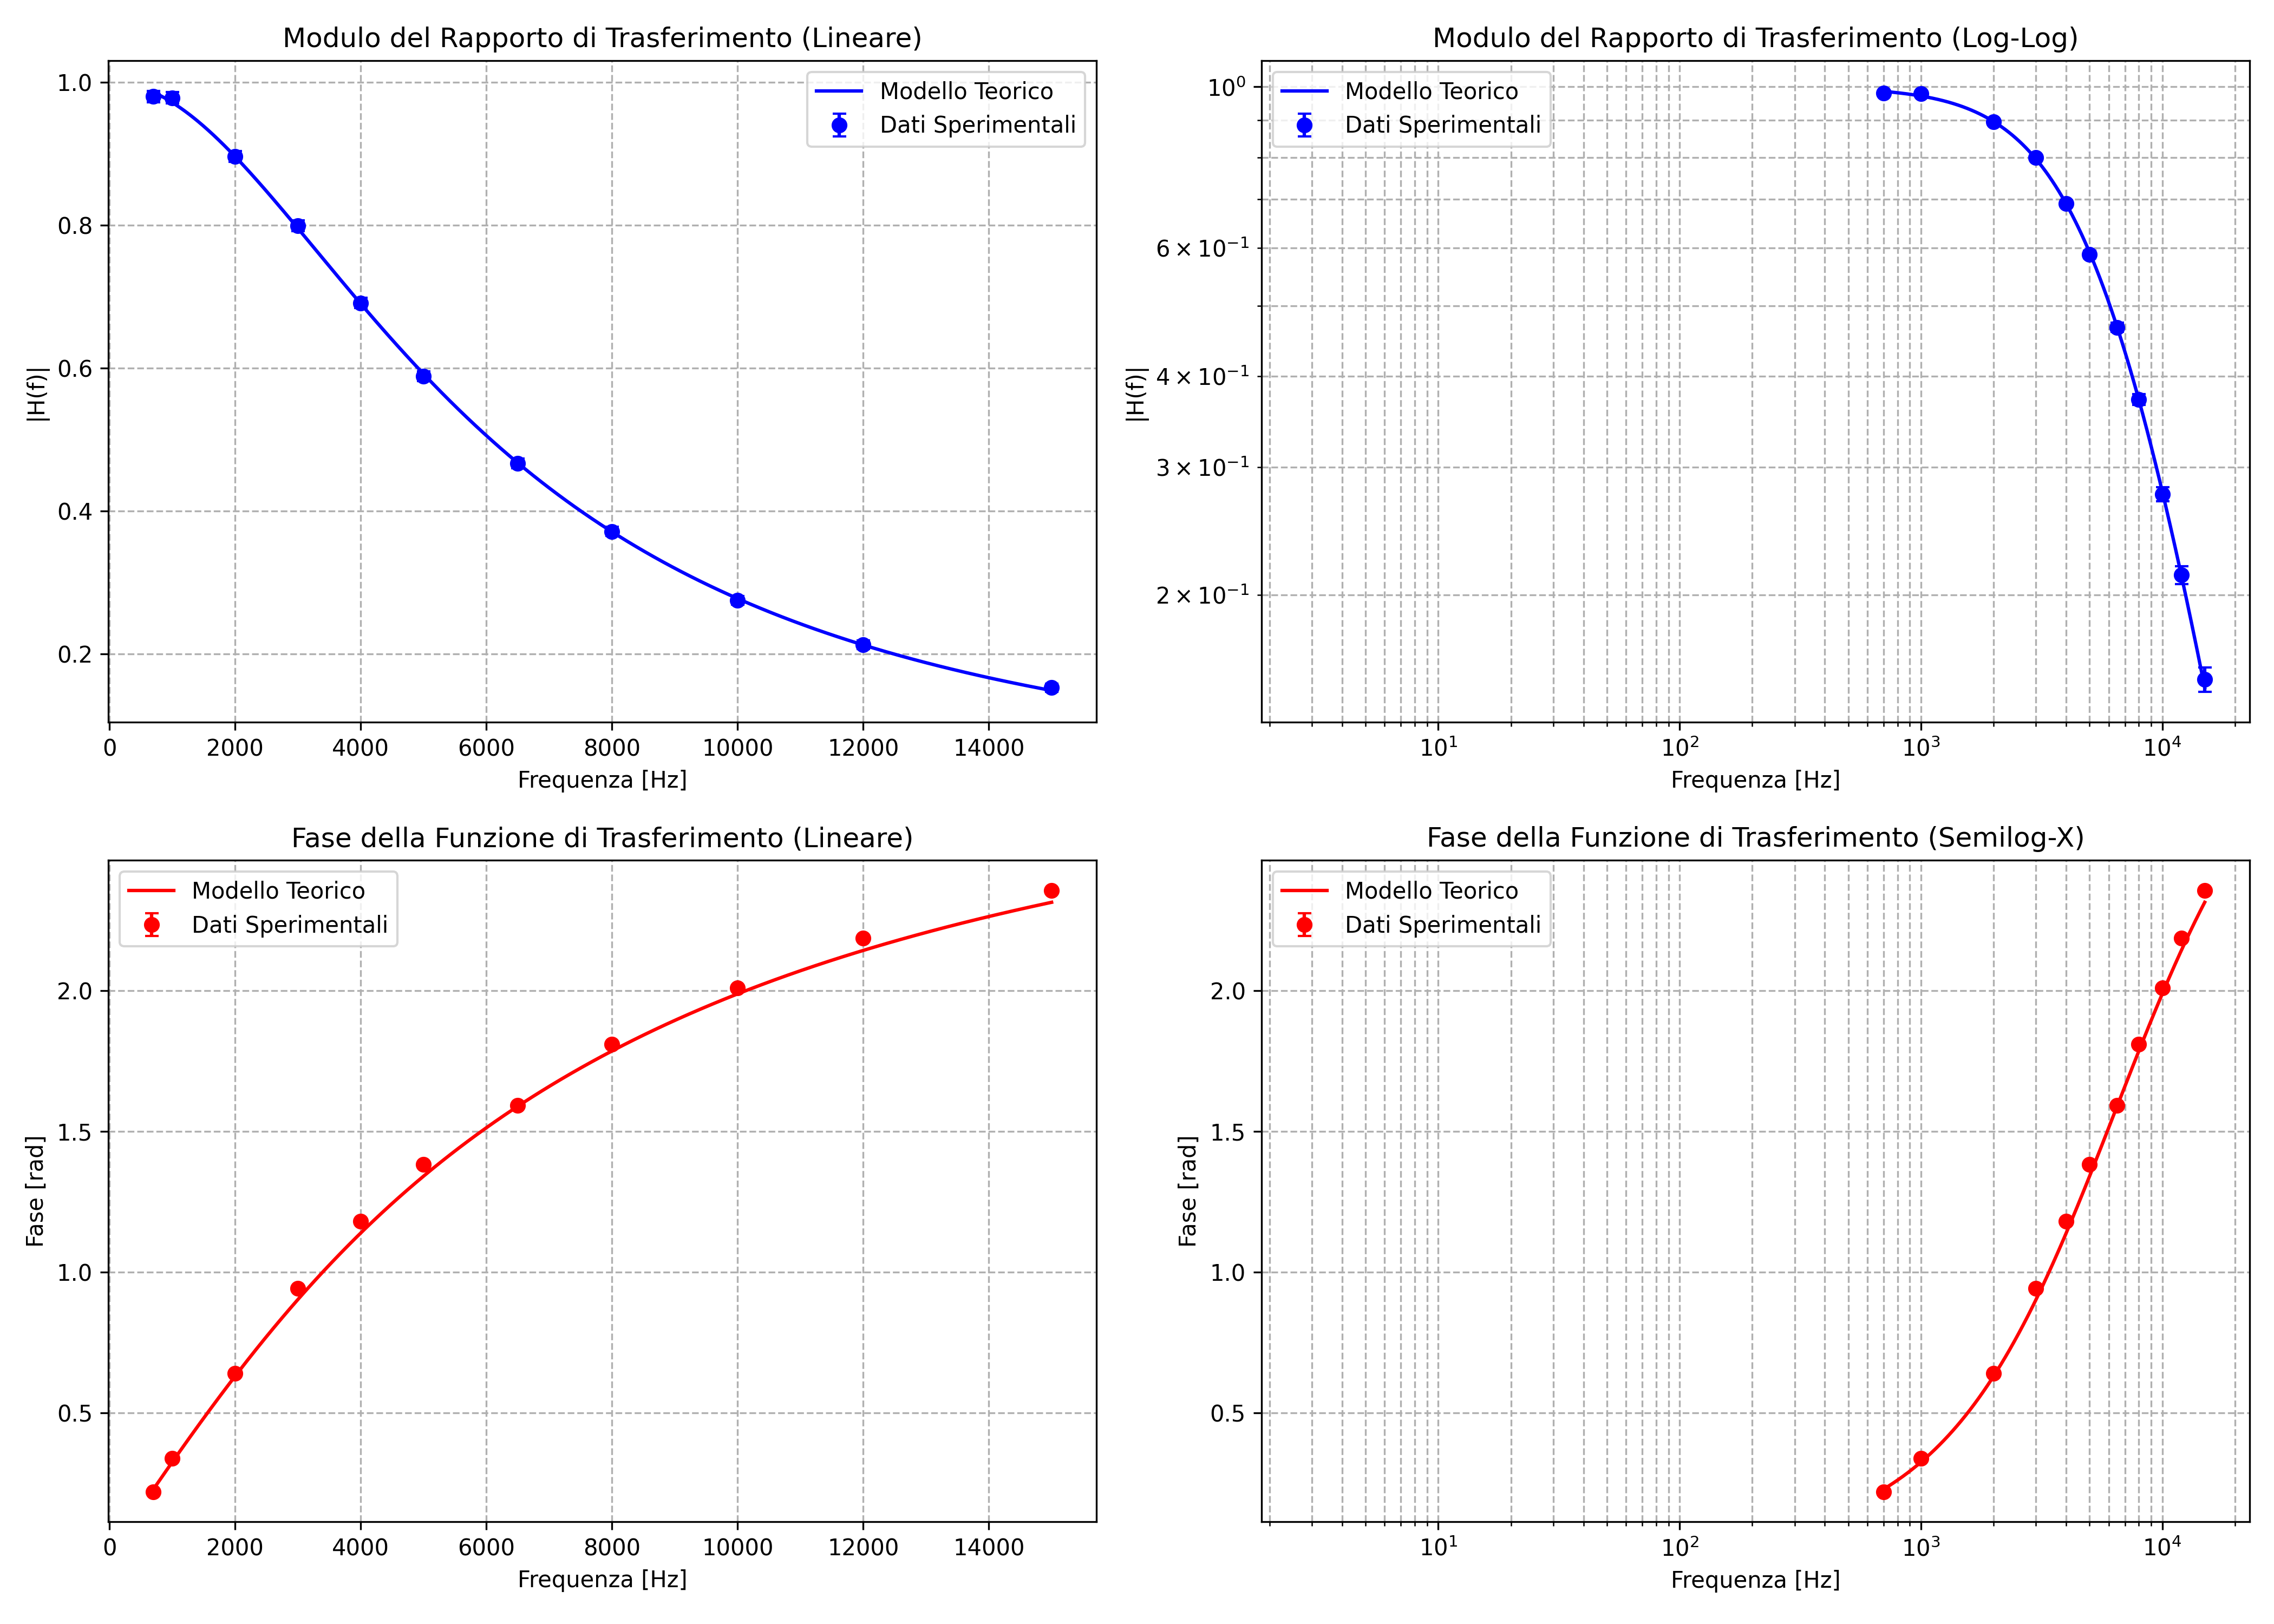
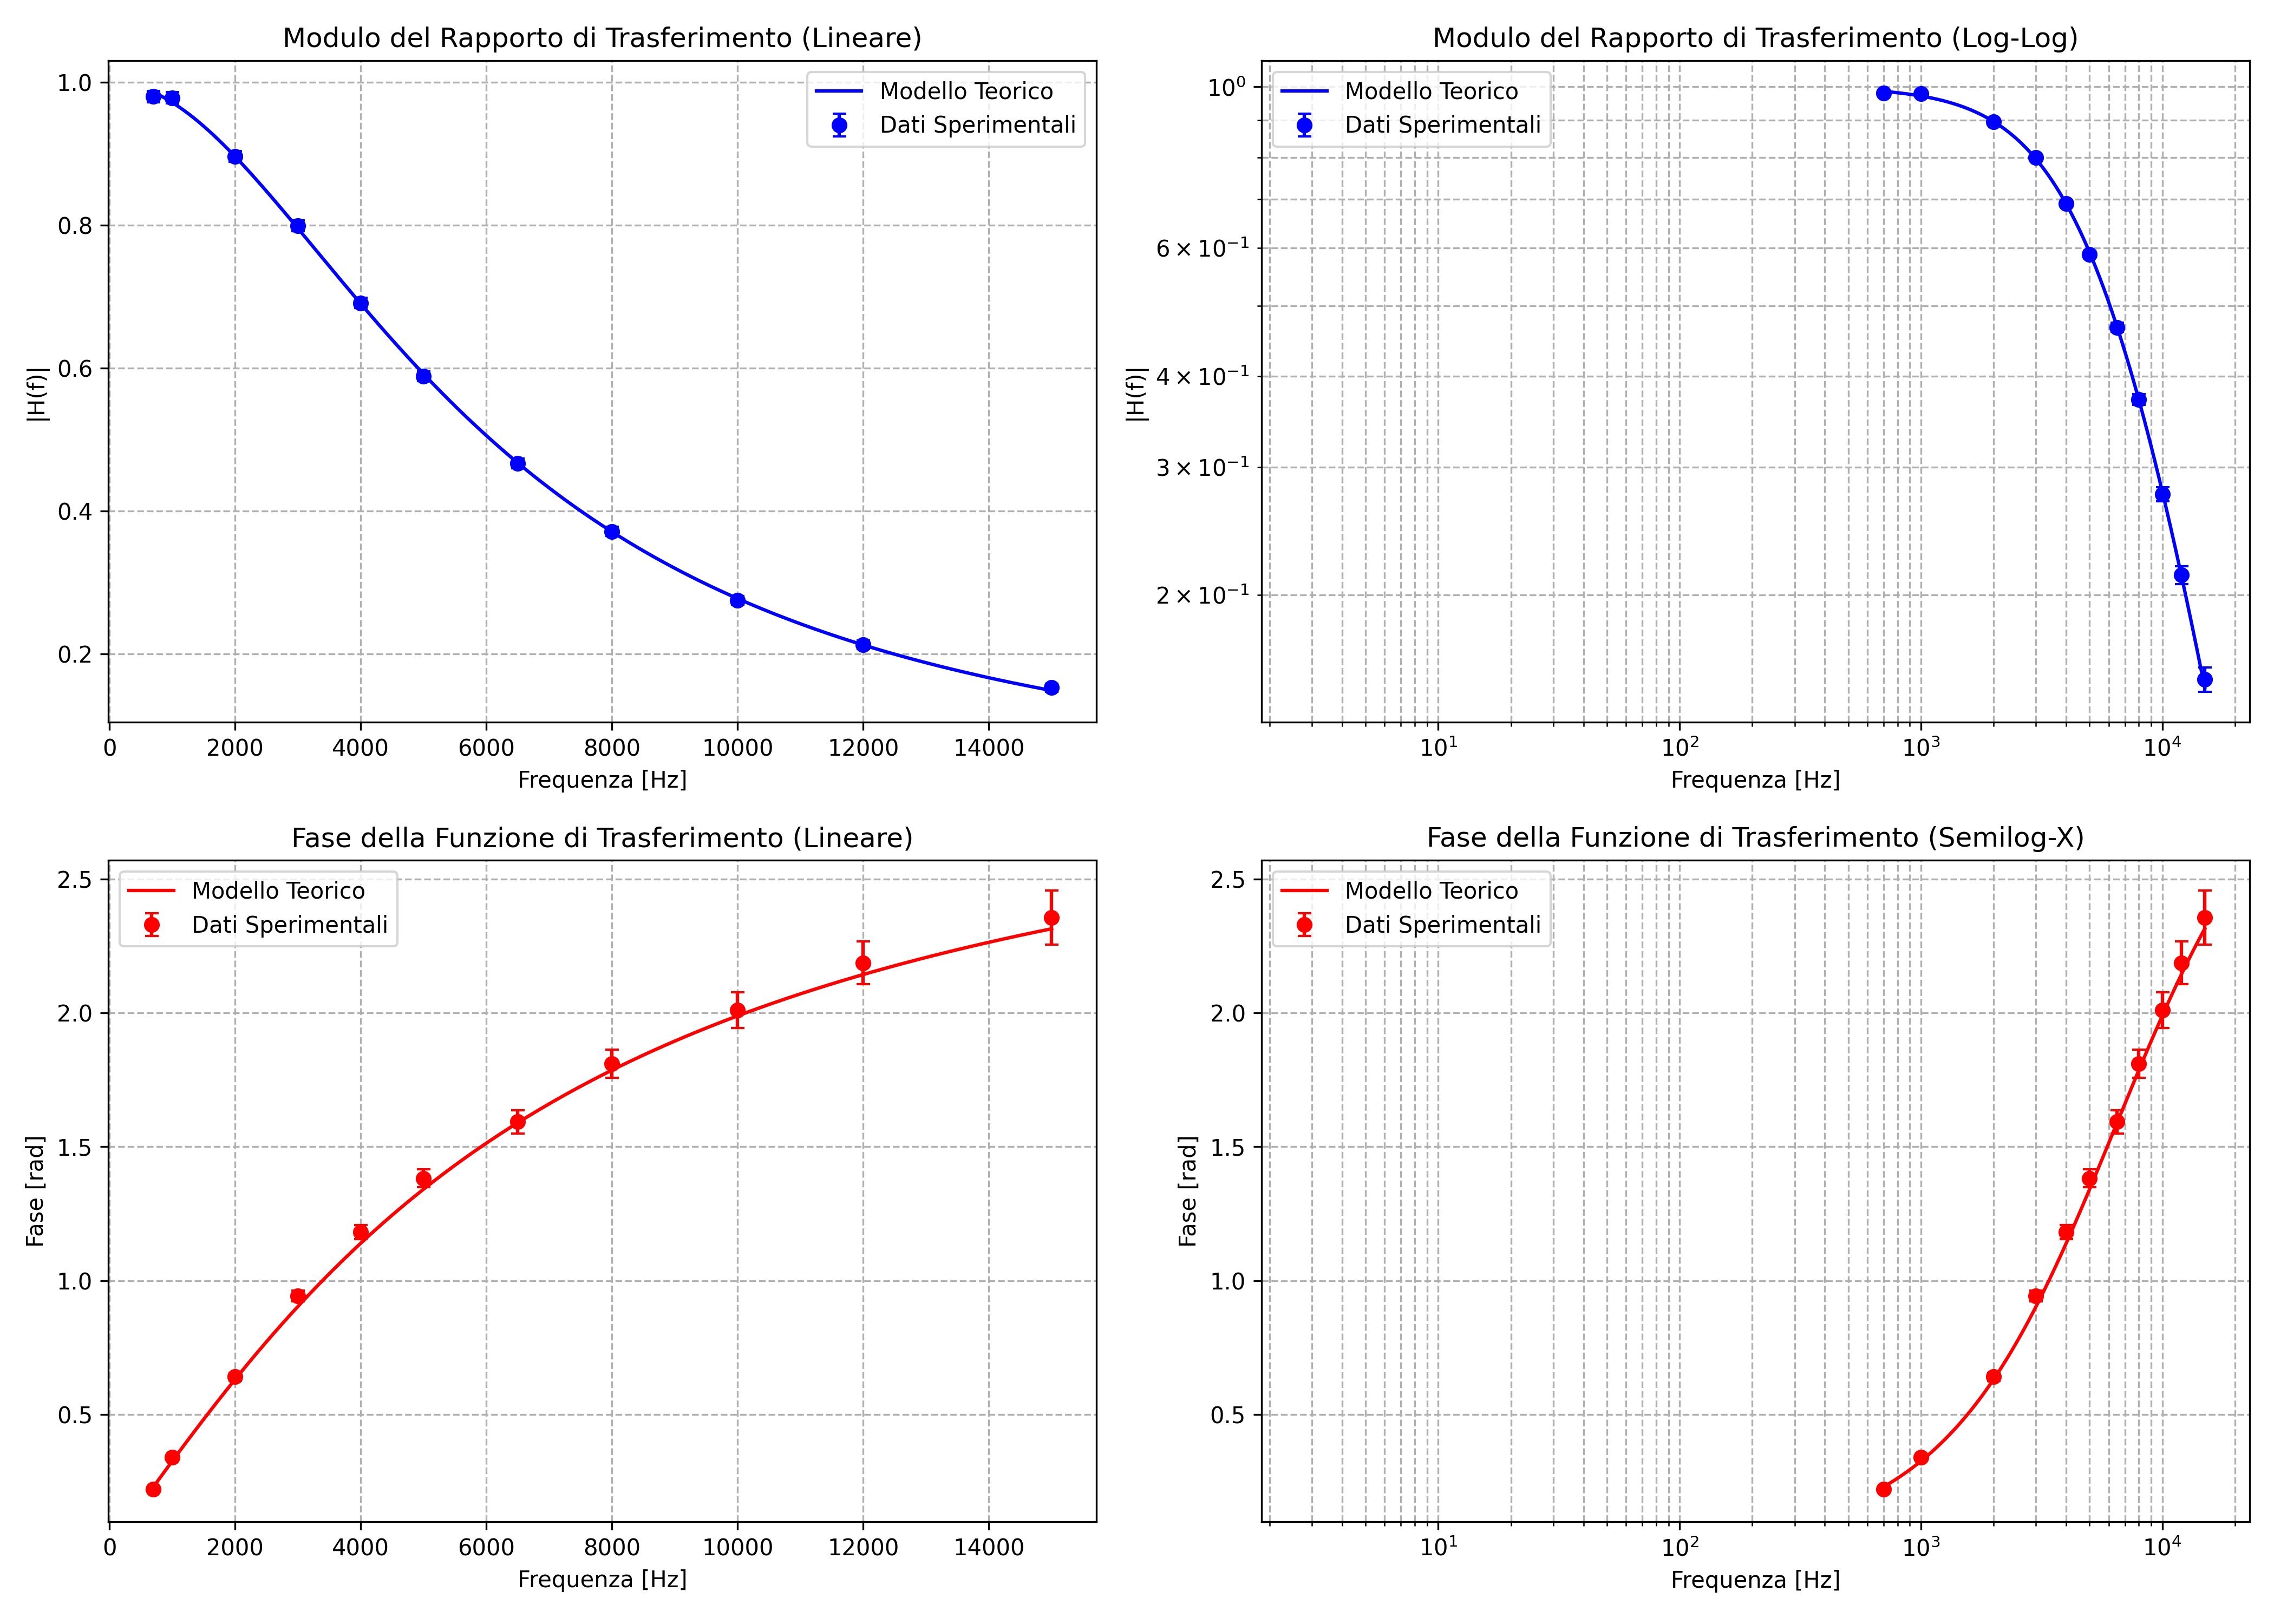
statistica RLCc

diff --git a/HC_RLC.py b/HC_RLC.py
@@ -2,6 +2,7 @@ import numpy as np
 import pandas as pd
 import matplotlib.pyplot as plt
 from scipy.optimize import curve_fit
+from scipy.stats import chi2  
 
 # --- CONFIGURAZIONE E DATI ---
 R_valore = 767 
@@ -26,7 +27,7 @@ def HC_rlc(f,L,C):
 
 
 
-def passa_alto_fase_R(f, L, C):
+def passa_basso_fase_R(f, L, C):
     omega = 2 * np.pi * f
     # Fase per circuito RLC con uscita ai capi di R
     return np.pi/2+np.arctan((omega * L - 1 / (omega * C)) / (R_valore + R_L))
@@ -52,13 +53,31 @@ fase_dati = 2 * np.pi * f_dati * delta_t
 
 # Normalizzazione della fase nell'intervallo [-pi, pi]
 fase_dati = (fase_dati + np.pi) % (2 * np.pi) - np.pi
-
+'''
 # Propagazione errore sulla fase: sigma_delta_t = sqrt(2)*sigma_t
 err_fase = 2 * np.pi * f_dati * np.sqrt(2) * sigma_t
-
+'''
 # Stime iniziali per il fit
 p0_L = 1e-2      # 10 mH
 c0_C = 68 * 1e-9 # 68 nF
+
+# --- CALCOLO ERRORE DINAMICO + RISOLUZIONE STRUMENTO ---
+
+# 1. Jitter temporale dovuto al rumore di ampiezza (dai tuoi appunti)
+sigma_t_a_noise = sigma_V / (2 * np.pi * f_dati * Va)
+sigma_t_b_noise = sigma_V / (2 * np.pi * f_dati * Vb)
+
+# 2. Risoluzione temporale intrinseca dell'oscilloscopio (Incertezza di lettura)
+# Valore stimato di circa 400 ns (adeguato se i punti ad alta frequenza deviano di ~0.1 rad)
+sigma_t_str = 0.7e-6  
+
+# 3. Composizione in quadratura degli errori per singolo canali
+sigma_t_a = np.sqrt(sigma_t_a_noise**2 + sigma_t_str**2)
+sigma_t_b = np.sqrt(sigma_t_b_noise**2 + sigma_t_str**2)
+
+# 4. Propagazione finale sulla differenza di tempo e sulla fase
+sigma_delta_t = np.sqrt(sigma_t_a**2 + sigma_t_b**2)
+err_fase = 2 * np.pi * f_dati * sigma_delta_t
 
 # --- ESECUZIONE DEL FIT ---
 popt_HP, pcov_HP = curve_fit(HC_rlc, f_dati, H, p0=[p0_L, c0_C], sigma=err_H_HP, absolute_sigma=True)
@@ -71,6 +90,25 @@ print("--- RISULTATI DEI FIT (MODULO) ---")
 print(f"L ottimizzato:  {L_fit_HP*1e3:.2f} ± {L_err_HP*1e3:.2f} mH")
 print(f"C ottimizzato:  {C_fit_HP*1e9:.2f} ± {C_err_HP*1e9:.2f} nF")
 
+# --- CALCOLO STATISTICO: MODULO ---
+valori_attesi_mod = HC_rlc(f_dati, L_fit_HP, C_fit_HP)
+chi2_mod = np.sum(((H - valori_attesi_mod) / err_H_HP) ** 2)
+dof_mod = len(f_dati) - len(popt_HP)
+p_value_mod = chi2.sf(chi2_mod, dof_mod)
+
+print("\n--- STATISTICHE DEL FIT (MODULO) ---")
+print(f"Chi2 Modulo: {chi2_mod:.2f} / {dof_mod} DoF")
+print(f"p-value Modulo: {p_value_mod:.4e}")
+
+# --- CALCOLO STATISTICO: FASE ---
+valori_attesi_fase = passa_basso_fase_R(f_dati, L_fit_HP, C_fit_HP)
+chi2_fase = np.sum(((fase_dati - valori_attesi_fase) / err_fase) ** 2)
+dof_fase = len(f_dati) - len(popt_HP)
+p_value_fase = chi2.sf(chi2_fase, dof_fase)
+
+print("\n--- STATISTICHE DELLA FASE (CONFRONTO MODELLO) ---")
+print(f"Chi2 Fase: {chi2_fase:.2f} / {dof_fase} DoF")
+print(f"p-value Fase: {p_value_fase:.4e}")
 # --- GRAFICI ---
 f_fit = np.logspace(np.log10(min(f_dati)), np.log10(max(f_dati)), 6000)
 
@@ -96,7 +134,7 @@ axs[0, 1].legend()
 
 # --- [1, 0] Fase Scala Lineare ---
 axs[1, 0].errorbar(f_dati, fase_dati, yerr=err_fase, fmt='o', color='red', label='Dati Sperimentali', capsize=3)
-axs[1, 0].plot(f_fit, passa_alto_fase_R(f_fit, L_fit_HP, C_fit_HP), 'r-', label='Modello Teorico')
+axs[1, 0].plot(f_fit, passa_basso_fase_R(f_fit, L_fit_HP, C_fit_HP), 'r-', label='Modello Teorico')
 axs[1, 0].set_title("Fase della Funzione di Trasferimento (Lineare)")
 axs[1, 0].set_xlabel("Frequenza [Hz]")
 axs[1, 0].set_ylabel("Fase [rad]")
@@ -104,7 +142,7 @@ axs[1, 0].grid(True, which="both", ls="--")
 axs[1, 0].legend()
 
 # --- [1, 1] Fase Scala Semilogaritmica (Asse X Log) ---
-axs[1, 1].semilogx(f_fit, passa_alto_fase_R(f_fit, L_fit_HP, C_fit_HP), 'r-', label='Modello Teorico')
+axs[1, 1].semilogx(f_fit, passa_basso_fase_R(f_fit, L_fit_HP, C_fit_HP), 'r-', label='Modello Teorico')
 axs[1, 1].errorbar(f_dati, fase_dati, yerr=err_fase, fmt='o', color='red', capsize=3, label='Dati Sperimentali')
 axs[1, 1].set_title("Fase della Funzione di Trasferimento (Semilog-X)")
 axs[1, 1].set_xlabel("Frequenza [Hz]")